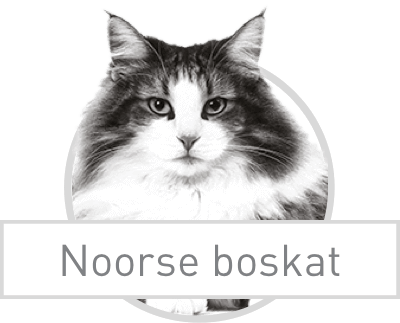
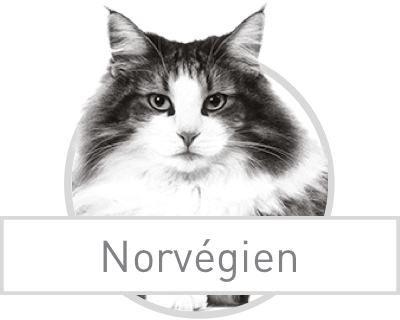
add french cats images

diff --git a/step4.html b/step4.html
@@ -95,7 +95,7 @@
             </div>
             <div class="row align-center">
               <div class="column medium-8 small-10 flex__column">
-                <input type="text" class="step2__dog-name error-input" required>
+                <input type="text" class="step2__dog-name error-input">
                 <div class="error">Gelieve een naam in te vullen.</div>
               </div>
             </div>
